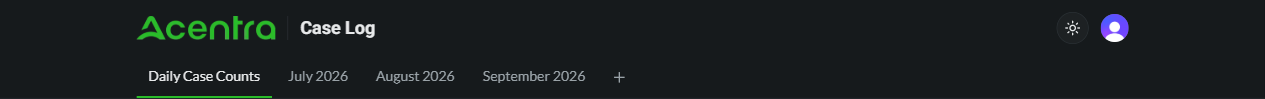
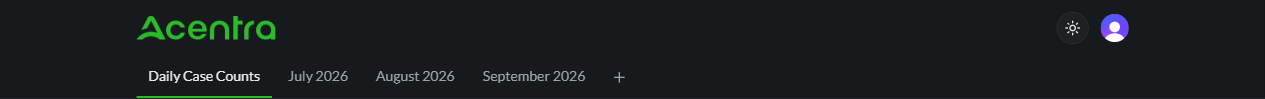
Header shows the wordmark alone; Case Log text removed

Changed region(s): [[0.2158, 0.2121, 0.3083, 0.3939]]

diff --git a/app/(app)/layout.tsx b/app/(app)/layout.tsx
@@ -34,7 +34,7 @@ export default async function AppLayout({
     <div className="flex min-h-dvh flex-col">
       <header className="sticky top-0 z-10 border-b border-border bg-card/85 backdrop-blur">
         <div className="mx-auto flex h-14 max-w-5xl items-center justify-between gap-3 px-4">
-          <Link href="/" className="flex min-w-0 items-center gap-3" aria-label="Case Log home">
+          <Link href="/" className="flex min-w-0 items-center" aria-label="Case Log home">
             <Image
               src="/brand/acentra-wordmark.png"
               alt="Acentra"
@@ -43,8 +43,6 @@ export default async function AppLayout({
               priority
               className="h-6 w-auto shrink-0"
             />
-            <span aria-hidden className="h-6 w-px bg-border" />
-            <span className="truncate font-serif text-lg font-bold leading-tight">Case Log</span>
           </Link>
           <div className="flex items-center gap-3">
             <ThemeToggle />
